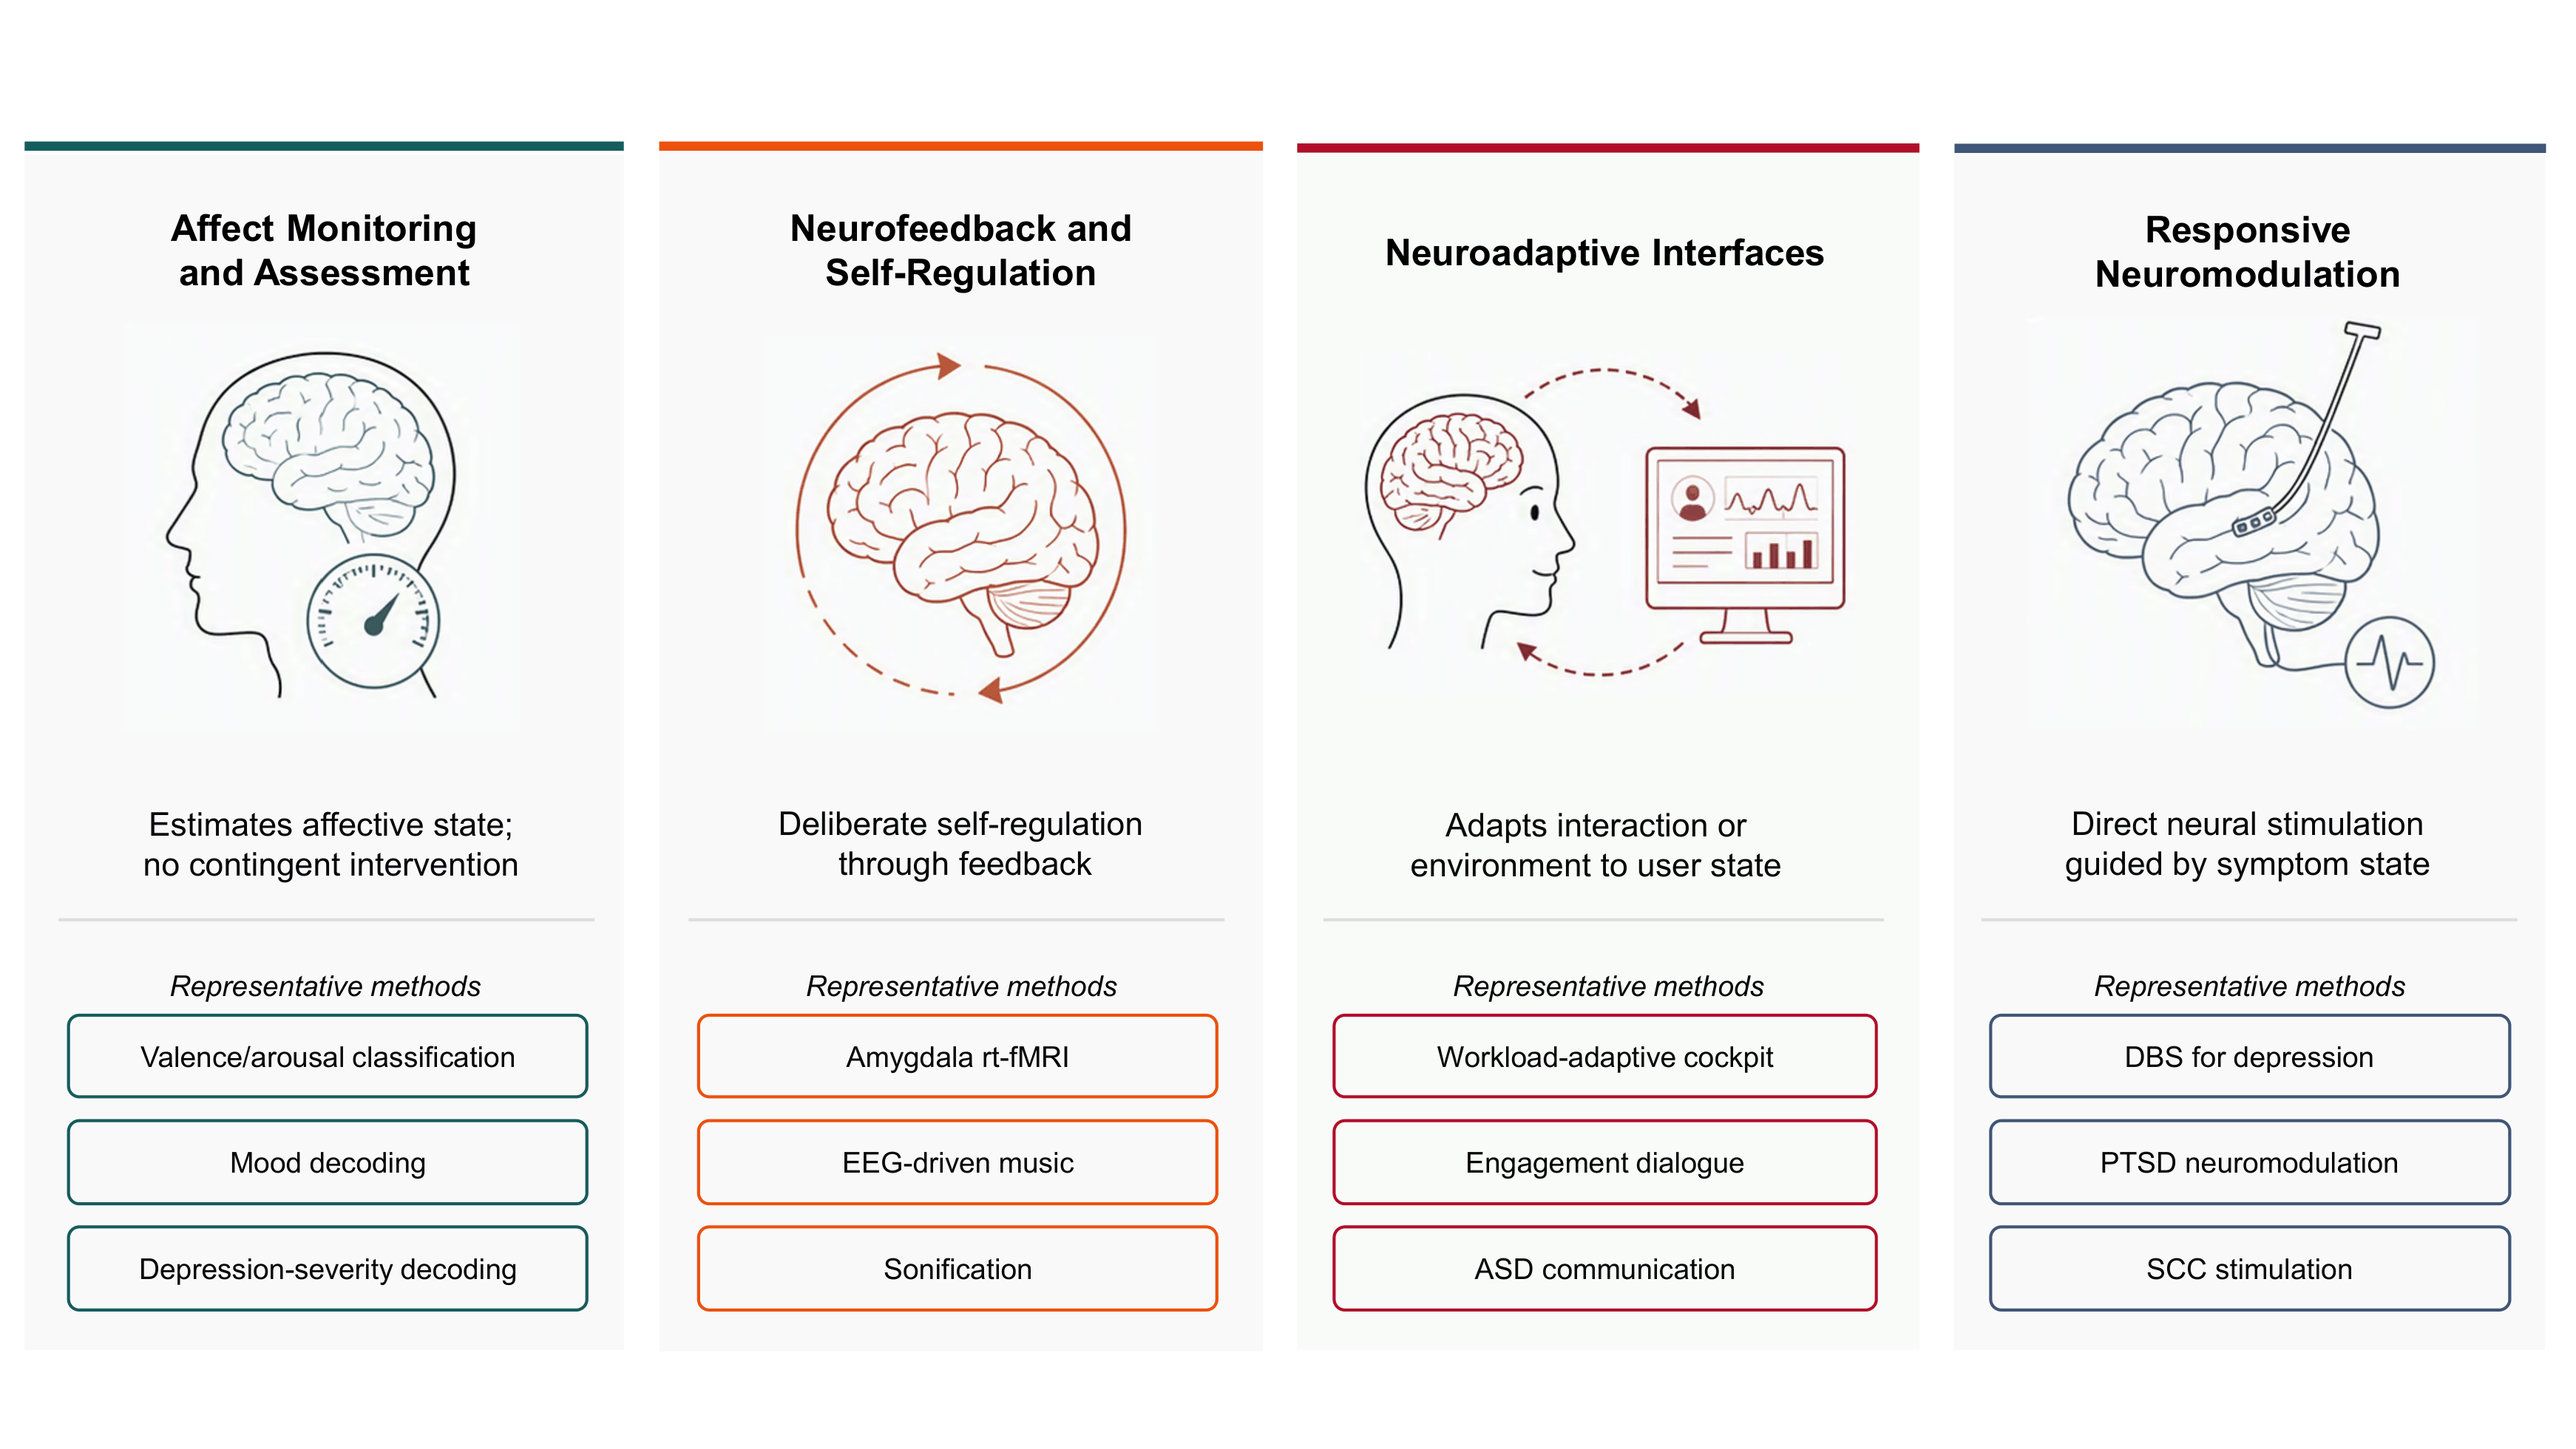
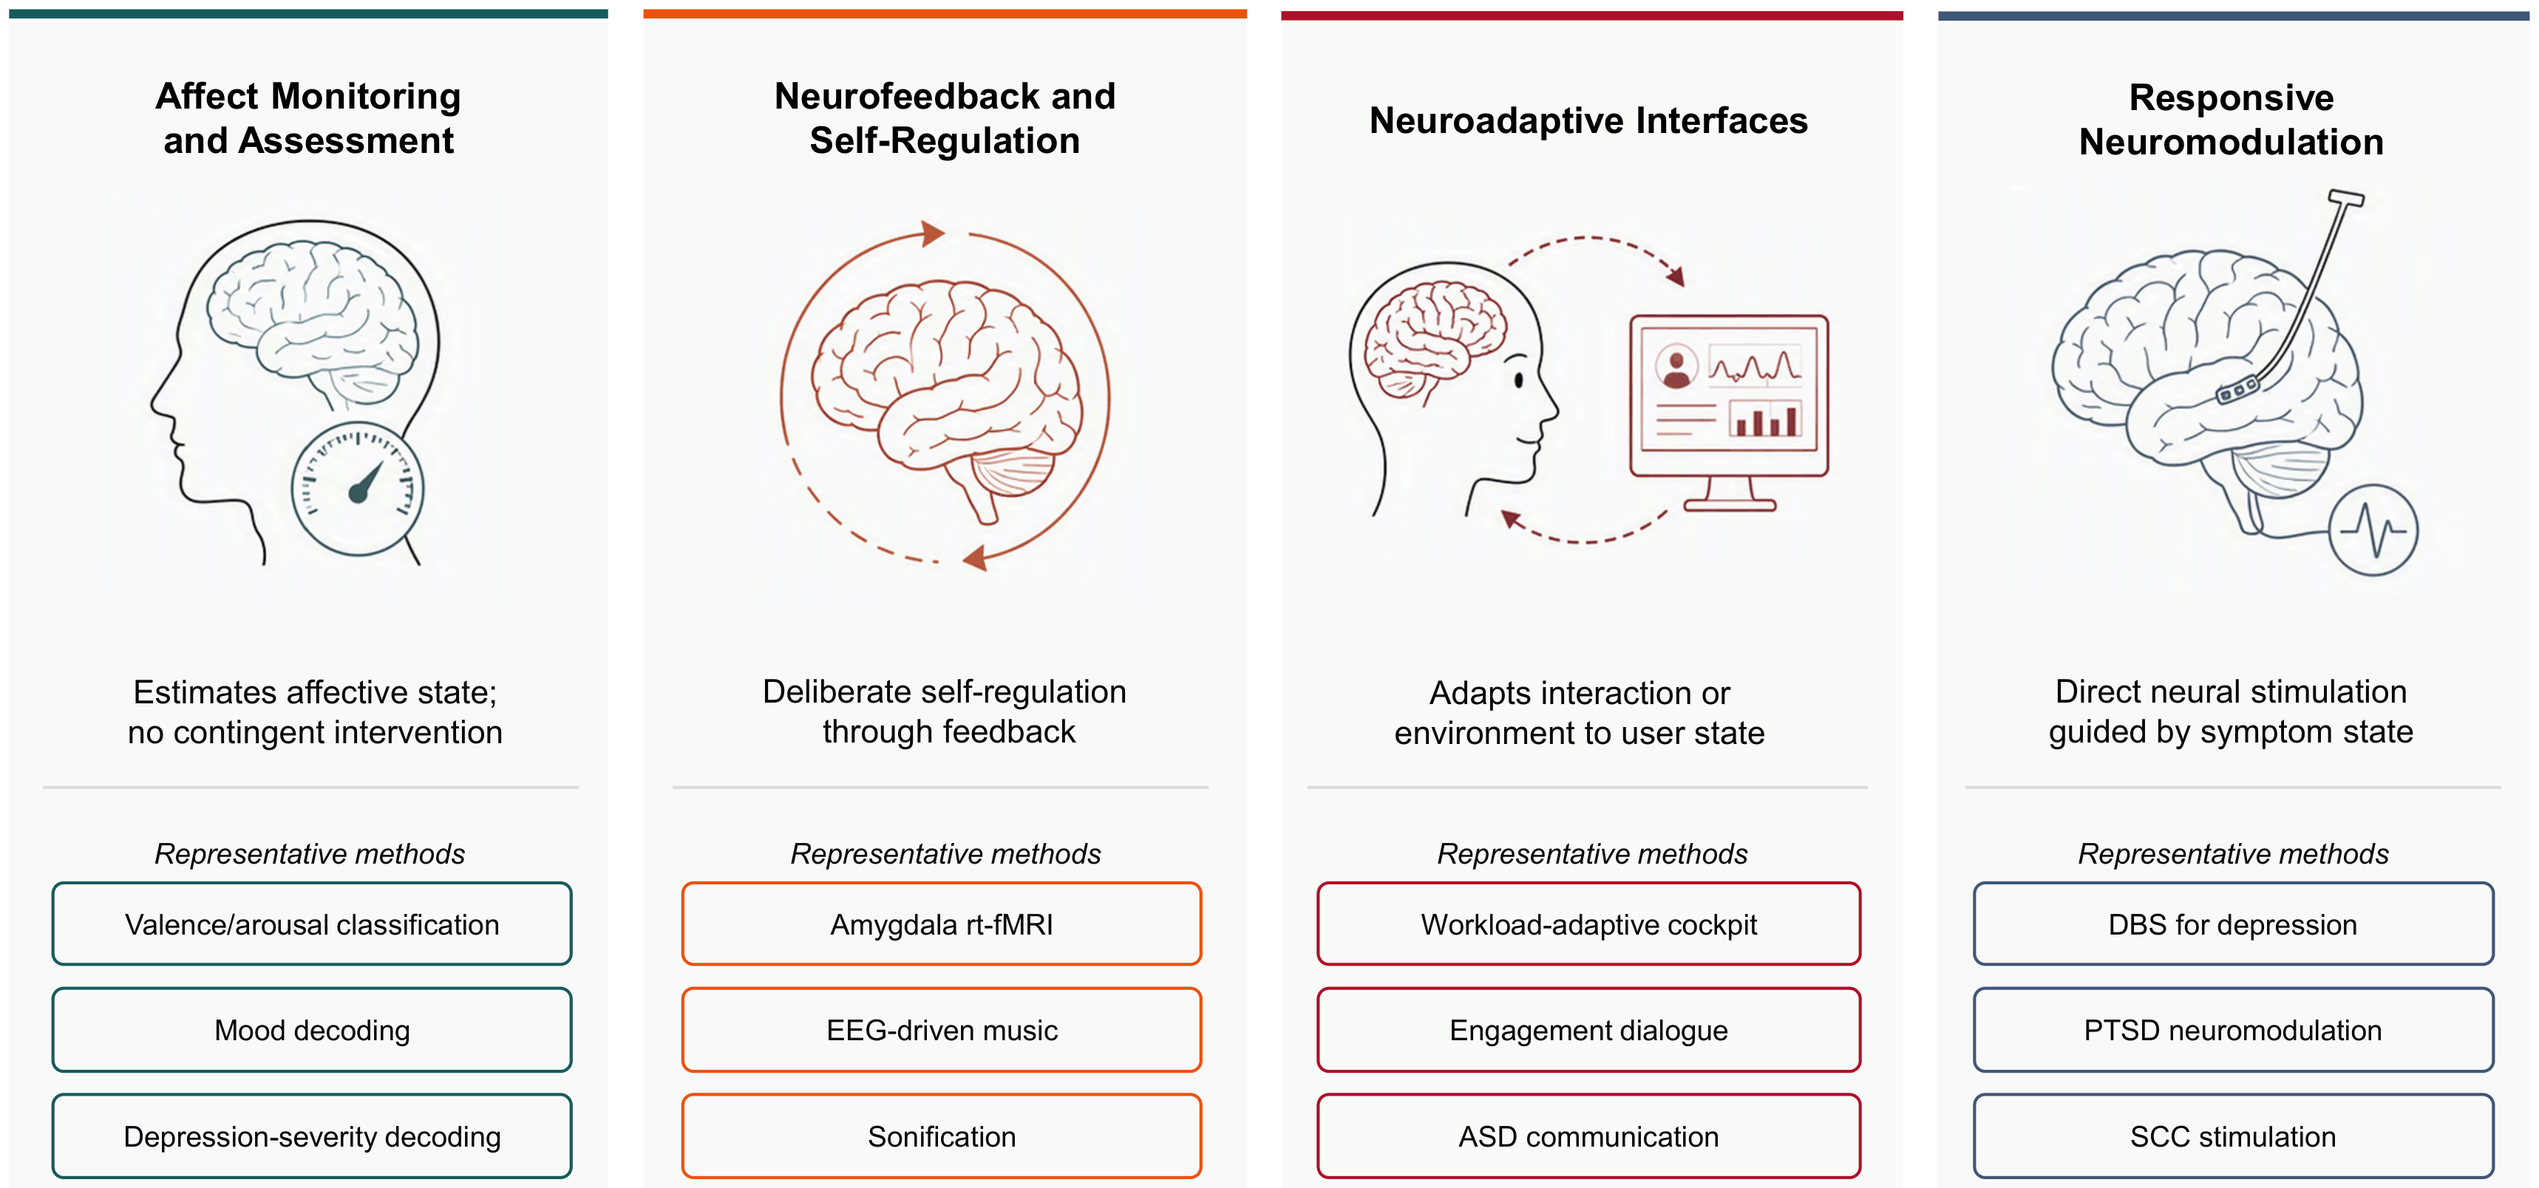
Trim the white margin off the exported figures
The PDF pages carry whitespace around the artwork, which becomes dead
space once a figure is placed in the README at full column width. The
closed-loop figure was 65% content; it now fills the space it is given,
and the applications figure reads at a size the method labels are legible
at.

The exporter trims each page to its content with a small even margin, so
re-exporting a changed figure keeps the same result.

diff --git a/scripts/export_figures.py b/scripts/export_figures.py
@@ -6,6 +6,11 @@ The pages are flat colour with mostly solid fills, so they are quantised to a
 RGB render and roughly half the size, which matters for a repository that
 loads these images on its landing page.
 
+The PDF pages carry whitespace around the artwork, which becomes dead space
+once the figure is placed in a README at full column width. Each export is
+therefore trimmed to its content, with a small even margin left around it, so
+the figure fills the space it is given.
+
 Run after changing a figure:
 
     python scripts/export_figures.py
@@ -16,7 +21,7 @@ from __future__ import annotations
 from pathlib import Path
 
 import fitz  # PyMuPDF
-from PIL import Image
+from PIL import Image, ImageChops
 
 ROOT = Path(__file__).resolve().parent.parent
 SRC = ROOT / "paper" / "figures"
@@ -28,6 +33,27 @@ FIGS = {
     "levels.pdf": "levels.png",
     "bci_applications.pdf": "applications.png",
 }
+
+# White margin left around the trimmed artwork, in pixels at 200 dpi.
+MARGIN = 12
+# Content darker than this counts as part of the artwork.
+THRESHOLD = 8
+
+
+def trim(image: Image.Image) -> Image.Image:
+    """Cut the white margin off a rendered page, keeping an even margin."""
+    white = Image.new("RGB", image.size, (255, 255, 255))
+    diff = ImageChops.difference(image, white).convert("L")
+    mask = diff.point(lambda v: 255 if v > THRESHOLD else 0)
+    bbox = mask.getbbox()
+    if bbox is None:
+        return image
+    left, top, right, bottom = bbox
+    left = max(0, left - MARGIN)
+    top = max(0, top - MARGIN)
+    right = min(image.width, right + MARGIN)
+    bottom = min(image.height, bottom + MARGIN)
+    return image.crop((left, top, right, bottom))
 
 
 def main() -> None:
@@ -45,6 +71,7 @@ def main() -> None:
         doc.close()
 
         image = Image.open(out).convert("RGB")
+        image = trim(image)
         image = image.quantize(colors=256, method=Image.MEDIANCUT,
                                dither=Image.FLOYDSTEINBERG)
         image.save(out, "PNG", optimize=True)
